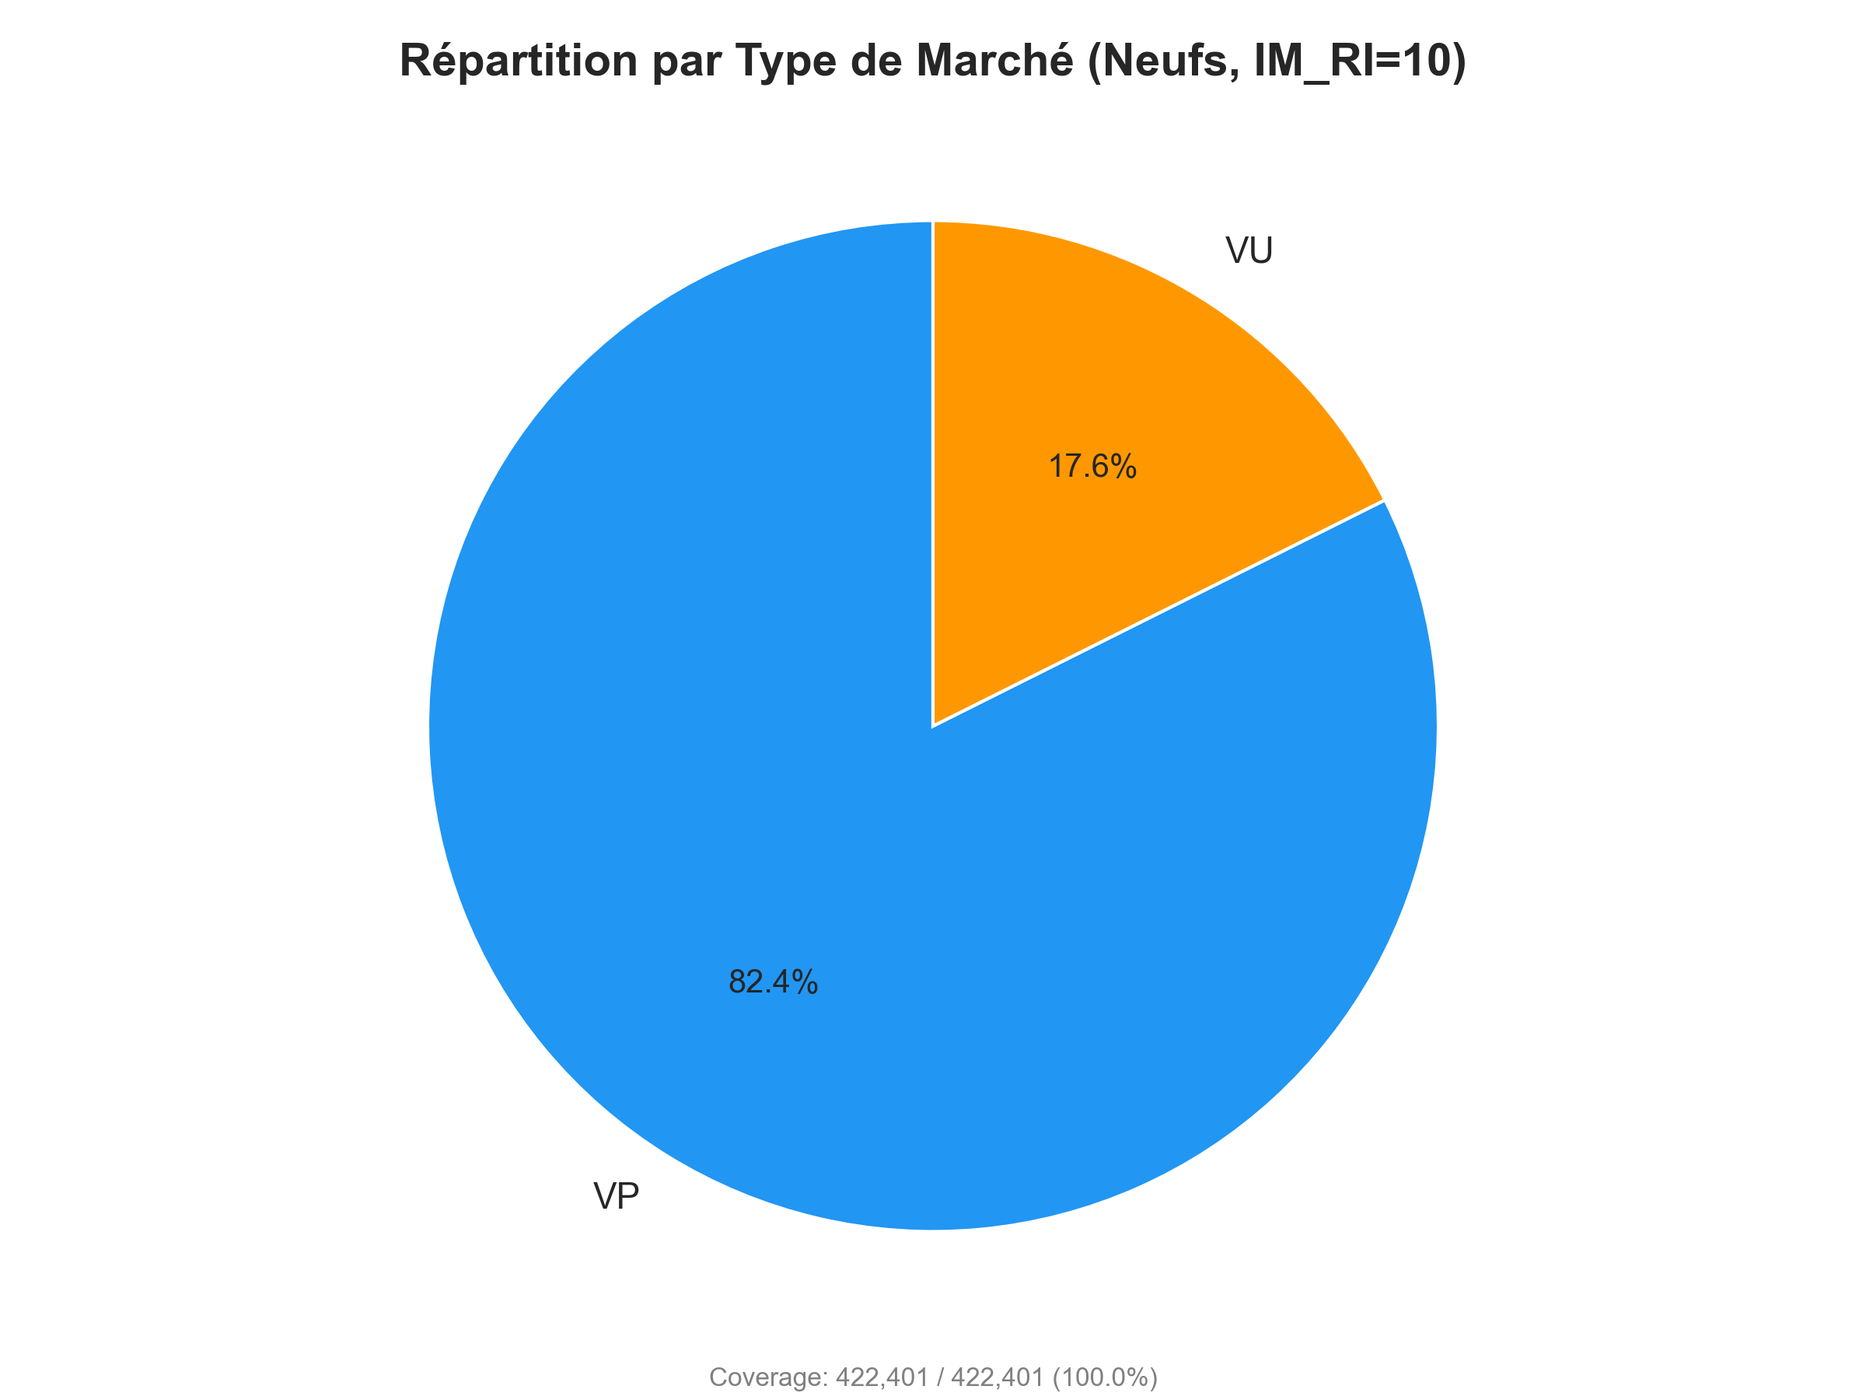
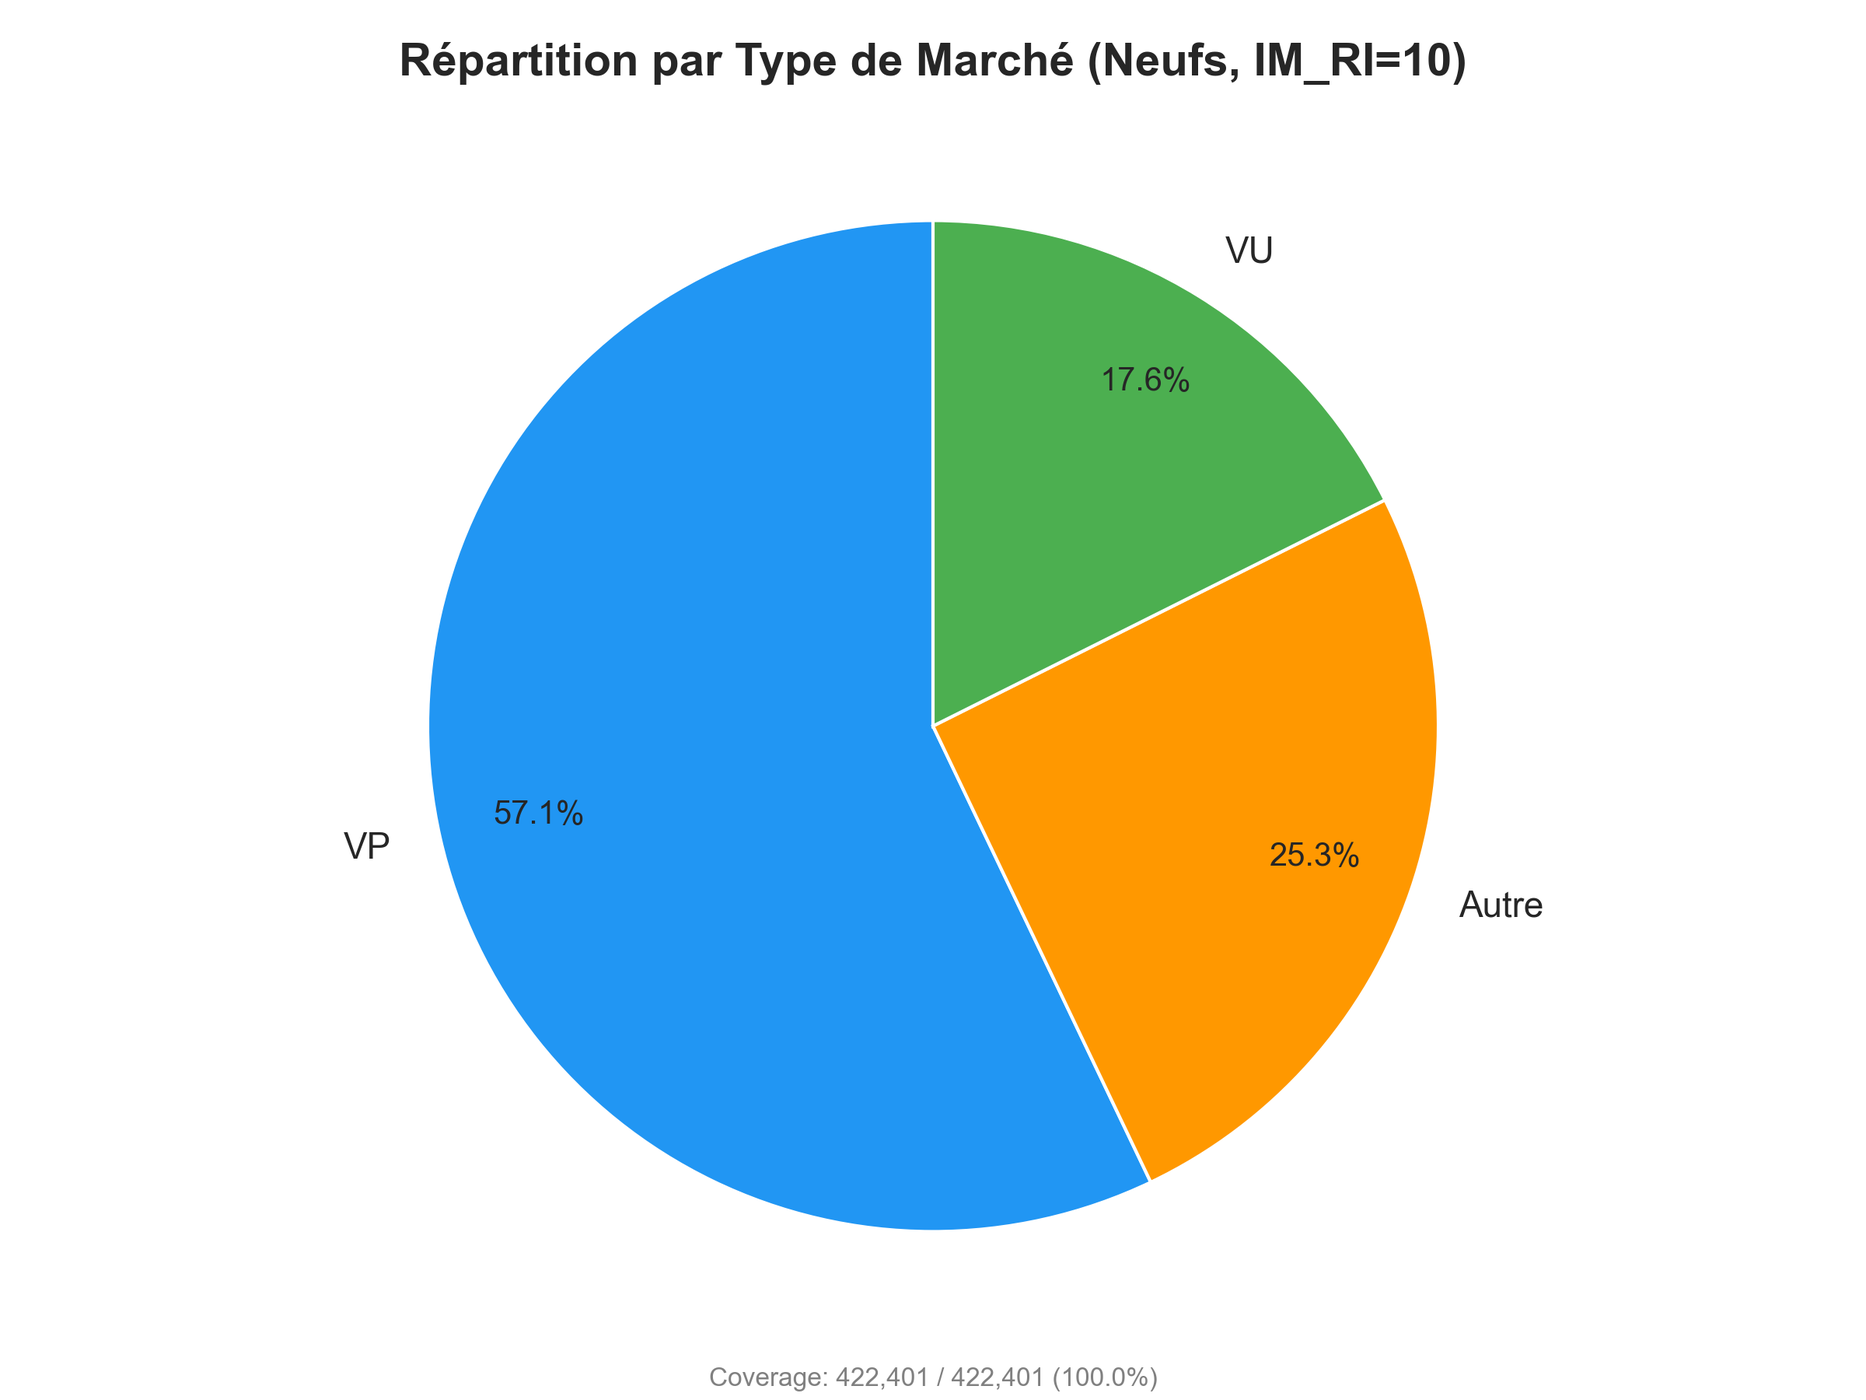
Update enrichment and EDA outputs

diff --git a/step6_modeling.py b/step6_modeling.py
@@ -41,6 +41,10 @@ RAMADAN_RANGES = [
 ]
 
 ARTES_BRANDS = {"RENAULT", "DACIA", "NISSAN"}
+FORECAST_GROUP_LIMITS = {
+    "SEGMENT": 30,
+    "SOUS_SEGMENT": 60,
+}
 
 
 @dataclass
@@ -410,6 +414,127 @@ def build_city_watch(df_raw):
     return watch
 
 
+def build_group_monthly_panel(df_raw, group_col):
+    """Build a monthly panel of sales by categorical group on IM_RI=10 rows."""
+    if group_col not in df_raw.columns:
+        raise ValueError(f"{group_col} column missing in data_cleaned_enriched.csv")
+
+    tmp = df_raw.copy()
+    tmp["IM_RI"] = pd.to_numeric(tmp["IM_RI"], errors="coerce").round().astype("Int64")
+    tmp = tmp[tmp["IM_RI"].eq(10)].copy()
+    tmp["Date"] = pd.to_datetime(tmp["DATV"], errors="coerce").dt.to_period("M").dt.to_timestamp()
+    tmp = tmp.dropna(subset=["Date"]).copy()
+
+    group_series = tmp[group_col].fillna("UNKNOWN").astype(str).str.strip()
+    group_series = group_series.replace({"": "UNKNOWN", "0": "UNKNOWN", "0.0": "UNKNOWN", "NAN": "UNKNOWN"})
+    tmp[group_col] = group_series
+
+    monthly_total = tmp.groupby("Date").size().rename("TOTAL").reset_index()
+    grouped = tmp.groupby(["Date", group_col]).size().rename("VOL").reset_index()
+
+    dates = pd.date_range(monthly_total["Date"].min(), monthly_total["Date"].max(), freq="MS")
+    categories = sorted(grouped[group_col].dropna().astype(str).unique())
+    panel = pd.MultiIndex.from_product([dates, categories], names=["Date", group_col]).to_frame(index=False)
+    panel = panel.merge(grouped, on=["Date", group_col], how="left")
+    panel = panel.merge(monthly_total, on="Date", how="left")
+    panel["VOL"] = panel["VOL"].fillna(0.0)
+    panel["TOTAL"] = panel["TOTAL"].fillna(0.0)
+    panel["SHARE"] = np.where(panel["TOTAL"] > 0, panel["VOL"] / panel["TOTAL"], 0.0)
+    panel["RAMADAN_DAYS"] = panel["Date"].map(month_ramadan_days)
+    panel["EST_RAMADAN"] = (panel["RAMADAN_DAYS"] > 0).astype(int)
+    panel["MOIS"] = panel["Date"].dt.month
+    panel["ANNEE"] = panel["Date"].dt.year
+    return panel
+
+
+def forecast_group_shares(panel, group_col, future_dates, future_total_pred, top_n=None):
+    """Fit one share model per category and forecast grouped monthly volumes."""
+    if panel.empty:
+        return pd.DataFrame(), pd.DataFrame()
+
+    cat_counts = panel.groupby(group_col).size().sort_values(ascending=False)
+    categories = list(cat_counts.index)
+    if top_n is not None:
+        categories = categories[:top_n]
+
+    forecast_rows = []
+    metric_rows = []
+
+    for category in categories:
+        series = panel[panel[group_col] == category].copy().sort_values("Date").reset_index(drop=True)
+        series = series[["Date", "TOTAL", "SHARE", "RAMADAN_DAYS", "EST_RAMADAN", "MOIS", "ANNEE"]].copy()
+
+        sup, features, target = make_share_supervised(series, "SHARE")
+        train = sup[sup["Date"] < pd.Timestamp("2025-01-01")].copy()
+        test = sup[(sup["Date"] >= pd.Timestamp("2025-01-01")) & (sup["Date"] <= pd.Timestamp("2025-12-01"))].copy()
+
+        model = None
+        if not train.empty:
+            model = build_ml_regressor()
+            model.fit(train[features], train[target])
+
+        if not test.empty:
+            if model is not None:
+                pred_share = np.clip(model.predict(test[features]), 0.0, 1.0)
+            else:
+                pred_share = np.repeat(float(series["SHARE"].iloc[-1]) if not series.empty else 0.0, len(test))
+            pred_vol = pred_share * test["TOTAL"].values
+            metric_rows.append({
+                group_col: category,
+                "model": "SHARE_MODEL",
+                "share_mae": float(mean_absolute_error(test["SHARE"], pred_share)),
+                "share_rmse": float(np.sqrt(mean_squared_error(test["SHARE"], pred_share))),
+                "share_smape": float(smape(test["SHARE"], pred_share)),
+                "volume_mae": float(mean_absolute_error(test["SHARE"] * test["TOTAL"].values, pred_vol)),
+                "volume_rmse": float(np.sqrt(mean_squared_error(test["SHARE"] * test["TOTAL"].values, pred_vol))),
+                "volume_smape": float(smape(test["SHARE"] * test["TOTAL"].values, pred_vol)),
+                "train_months": int(len(train)),
+                "test_months": int(len(test)),
+            })
+
+        hist = series.copy().reset_index(drop=True)
+        for d, total_pred in zip(future_dates, future_total_pred):
+            if model is not None:
+                feat_dict = one_step_share_features(hist, d, "SHARE", [])
+                feat_df = pd.DataFrame([feat_dict])[features]
+                share_pred = float(np.clip(model.predict(feat_df)[0], 0.0, 1.0))
+            else:
+                share_pred = float(hist["SHARE"].iloc[-1]) if not hist.empty else 0.0
+
+            forecast_rows.append({
+                "Date": d,
+                group_col: category,
+                "RAW_SHARE": share_pred,
+                "TOTAL_PRED": float(total_pred),
+            })
+            hist = pd.concat([
+                hist,
+                pd.DataFrame([{
+                    "Date": d,
+                    "TOTAL": float(total_pred),
+                    "SHARE": share_pred,
+                    "RAMADAN_DAYS": month_ramadan_days(d),
+                    "EST_RAMADAN": int(month_ramadan_days(d) > 0),
+                    "MOIS": pd.Timestamp(d).month,
+                    "ANNEE": pd.Timestamp(d).year,
+                }])
+            ], ignore_index=True)
+
+    forecast_df = pd.DataFrame(forecast_rows)
+    if forecast_df.empty:
+        return forecast_df, pd.DataFrame(metric_rows)
+
+    forecast_df["SHARE_NORM"] = forecast_df["RAW_SHARE"].clip(lower=0.0)
+    month_sum = forecast_df.groupby("Date")["SHARE_NORM"].transform("sum")
+    forecast_df["SHARE_NORM"] = np.where(month_sum > 0, forecast_df["SHARE_NORM"] / month_sum, 0.0)
+    forecast_df["PREV_VENTES"] = forecast_df["TOTAL_PRED"] * forecast_df["SHARE_NORM"]
+    forecast_df = forecast_df.rename(columns={"SHARE_NORM": "PREV_SHARE"})
+    forecast_df = forecast_df[["Date", group_col, "PREV_SHARE", "PREV_VENTES"]].sort_values(["Date", group_col]).reset_index(drop=True)
+
+    metrics_df = pd.DataFrame(metric_rows)
+    return forecast_df, metrics_df
+
+
 def main():
     print("STEP 6 - MODELING & FORECASTING (S1 2026)\n")
     project_root = os.path.dirname(os.path.abspath(__file__))
@@ -562,6 +687,7 @@ def main():
                         dfm[c] = dfm[c].ffill().bfill()
 
             res = run_forecasting(dfm, df_raw, scenario_label=name)
+            scenario_multiplier = 1.0
             
             # Apply scenario multipliers based on economic factors (PIB index)
             if "PIB_INDEX" in res["df_future"].columns:
@@ -576,6 +702,32 @@ def main():
             out_forecast = os.path.join(project_root, f"step6_forecast_s1_2026_{name}.csv")
             res["df_future"].rename(columns={"TOTAL_PRED": "PREV_TOTAL_MARCHE"})[["Date", "PREV_TOTAL_MARCHE"]].to_csv(out_forecast, index=False)
             print(f"Saved scenario forecast: {os.path.basename(out_forecast)}")
+            scenario_segment, scenario_segment_metrics = forecast_group_shares(
+                build_group_monthly_panel(df_raw, "SEGMENT"),
+                "SEGMENT",
+                res["df_future"]["Date"].values,
+                res["df_future"]["TOTAL_PRED"].values,
+                top_n=FORECAST_GROUP_LIMITS["SEGMENT"],
+            )
+            scenario_sous, scenario_sous_metrics = forecast_group_shares(
+                build_group_monthly_panel(df_raw, "SOUS_SEGMENT"),
+                "SOUS_SEGMENT",
+                res["df_future"]["Date"].values,
+                res["df_future"]["TOTAL_PRED"].values,
+                top_n=FORECAST_GROUP_LIMITS["SOUS_SEGMENT"],
+            )
+            out_segment = os.path.join(project_root, f"step6_forecast_s1_2026_by_segment_{name}.csv")
+            out_segment_metrics = os.path.join(project_root, f"step6_metrics_summary_by_segment_{name}.csv")
+            out_sous = os.path.join(project_root, f"step6_forecast_s1_2026_by_sous_segment_{name}.csv")
+            out_sous_metrics = os.path.join(project_root, f"step6_metrics_summary_by_sous_segment_{name}.csv")
+            scenario_segment["PREV_VENTES"] = scenario_segment["PREV_VENTES"] * scenario_multiplier
+            scenario_sous["PREV_VENTES"] = scenario_sous["PREV_VENTES"] * scenario_multiplier
+            scenario_segment.to_csv(out_segment, index=False)
+            scenario_segment_metrics.to_csv(out_segment_metrics, index=False)
+            scenario_sous.to_csv(out_sous, index=False)
+            scenario_sous_metrics.to_csv(out_sous_metrics, index=False)
+            print(f"Saved scenario segment forecast: {os.path.basename(out_segment)}")
+            print(f"Saved scenario sous-segment forecast: {os.path.basename(out_sous)}")
             out_metrics = os.path.join(project_root, f"step6_metrics_summary_{name}.csv")
             pd.DataFrame([{"name": m.name, "mae": m.mae, "rmse": m.rmse, "smape": m.smape} for m in res["model_results"]]).to_csv(out_metrics, index=False)
             print(f"Saved scenario metrics: {os.path.basename(out_metrics)}")
@@ -771,6 +923,27 @@ def main():
     print("4) Build city watch output...")
     city_watch = build_city_watch(df_raw)
 
+    # Model 5: grouped forecasts by segment hierarchy.
+    print("5) Forecast ventes par SEGMENT...")
+    segment_panel = build_group_monthly_panel(df_raw, "SEGMENT")
+    segment_forecast, segment_metrics = forecast_group_shares(
+        segment_panel,
+        "SEGMENT",
+        future_dates,
+        df_future["TOTAL_PRED"].values,
+        top_n=FORECAST_GROUP_LIMITS["SEGMENT"],
+    )
+
+    print("6) Forecast ventes par SOUS_SEGMENT...")
+    sous_segment_panel = build_group_monthly_panel(df_raw, "SOUS_SEGMENT")
+    sous_segment_forecast, sous_segment_metrics = forecast_group_shares(
+        sous_segment_panel,
+        "SOUS_SEGMENT",
+        future_dates,
+        df_future["TOTAL_PRED"].values,
+        top_n=FORECAST_GROUP_LIMITS["SOUS_SEGMENT"],
+    )
+
     # Consolidated S1 2026 output.
     forecast = future_slice[["Date", "TOTAL", "VP", "VU", "PART_VP", "PART_VU", "RAMADAN_DAYS"]].copy()
     forecast = forecast.rename(columns={"TOTAL": "PREV_TOTAL_MARCHE", "VP": "PREV_VP", "VU": "PREV_VU"})
@@ -783,6 +956,10 @@ def main():
     out_backtest = os.path.join(project_root, "step6_backtest_2025_total.csv")
     out_city = os.path.join(project_root, "step6_city_watch_s1_2025_vs_2024.csv")
     out_artes_hist = os.path.join(project_root, "step6_artes_monthly_history.csv")
+    out_segment_forecast = os.path.join(project_root, "step6_forecast_s1_2026_by_segment.csv")
+    out_segment_metrics = os.path.join(project_root, "step6_metrics_summary_by_segment.csv")
+    out_sous_forecast = os.path.join(project_root, "step6_forecast_s1_2026_by_sous_segment.csv")
+    out_sous_metrics = os.path.join(project_root, "step6_metrics_summary_by_sous_segment.csv")
 
     forecast.to_csv(out_forecast, index=False)
     pd.DataFrame(
@@ -802,6 +979,10 @@ def main():
 
     city_watch.to_csv(out_city, index=False)
     df_month[["Date", "ARTES_VOL", "ARTES_SHARE", "TOTAL"]].to_csv(out_artes_hist, index=False)
+    segment_forecast.to_csv(out_segment_forecast, index=False)
+    segment_metrics.to_csv(out_segment_metrics, index=False)
+    sous_segment_forecast.to_csv(out_sous_forecast, index=False)
+    sous_segment_metrics.to_csv(out_sous_metrics, index=False)
 
     # Visual summary.
     fig, axes = plt.subplots(2, 2, figsize=(16, 10))

diff --git a/step4_eda.py b/step4_eda.py
@@ -248,18 +248,25 @@ def main():
         return
 
     if df_neuf[colonne_marche].notna().sum() > 0:
-        marche_counts = df_neuf[colonne_marche].value_counts()
+        # Clean and normalize labels so variants like 'marché autre)' are captured as 'Autre'
+        marche_series = df_neuf[colonne_marche].astype(str).str.strip()
+        marche_series = marche_series.str.replace(r'\)$', '', regex=True)
+        marche_series = marche_series.str.replace(r'(?i).*autre.*', 'Autre', regex=True)
+        marche_counts = marche_series.value_counts()
+
         plt.figure(figsize=(8, 6))
-        colors = ['#2196F3', '#FF9800', '#4CAF50'][:len(marche_counts)]
+        colors = ['#2196F3', '#FF9800', '#4CAF50', '#9C27B0'][:len(marche_counts)]
         wedges, texts, autotexts = plt.pie(
             marche_counts.values,
             labels=marche_counts.index,
             autopct='%1.1f%%',
             colors=colors,
-            startangle=90
+            startangle=90,
+            pctdistance=0.8
         )
         for t in autotexts:
             t.set_fontsize(10)
+
         plt.title('Répartition par Type de Marché (Neufs, IM_RI=10)',
                   fontsize=14, fontweight='bold')
         nn = df_neuf[colonne_marche].notna().sum()
@@ -273,18 +280,19 @@ def main():
     # ── GRAPH 9: Sales by CONTINENT ───────────────────────────────────────────
     if 'CONTINENT' in df_neuf.columns and df_neuf['CONTINENT'].notna().sum() > 0:
         cont_counts = df_neuf['CONTINENT'].value_counts()
-        plt.figure(figsize=(8, 6))
         colors = ['#3498DB', '#E74C3C', '#2ECC71', '#F39C12'][:len(cont_counts)]
-        wedges, texts, autotexts = plt.pie(
-            cont_counts.values,
-            labels=cont_counts.index,
-            autopct='%1.1f%%',
-            colors=colors,
-            startangle=90
-        )
-        for t in autotexts:
-            t.set_fontsize(10)
+        plt.figure(figsize=(10, 6))
+        ax = cont_counts.plot(kind='barh', color=colors, edgecolor='black', linewidth=1.2)
         plt.title('Ventes Neufs par Continent d\'Origine', fontsize=14, fontweight='bold')
+        plt.xlabel('Nombre de vehicules')
+        plt.ylabel('Continent')
+        plt.gca().invert_yaxis()
+        for p in ax.patches:
+            width = p.get_width()
+            pct = 100 * width / cont_counts.sum()
+            ax.annotate(f"{int(width):,}\n({pct:.1f}%)",
+                        (width, p.get_y() + p.get_height() / 2),
+                        va='center', ha='left', fontsize=10, fontweight='bold')
         nn = df_neuf['CONTINENT'].notna().sum()
         plt.figtext(0.5, 0.01, f'Coverage: {nn:,} / {len(df_neuf):,} ({nn/len(df_neuf)*100:.1f}%)',
                     ha='center', fontsize=8, color='gray')

diff --git a/step2_5_enrich_data.py b/step2_5_enrich_data.py
@@ -264,10 +264,21 @@ def main():
     # Valeurs: 'VP' = Vehicules Particuliers, 'VU' = Vehicules Utilitaires.
     # Cet enrichissement est requis pour step4, step5 et step6.
     if 'Marché' in df.columns:
-        df['TYPE_MARCHE'] = df['Marché'].astype(str).str.upper().str.extract(r'(VP|VU)', expand=False)
-        print("  Creation de TYPE_MARCHE depuis Marche")
+        # Normalize Marche labels (preserve variants like 'marché autre)')
+        df['Marché'] = df['Marché'].astype(str).str.strip()
+        # Remove stray trailing parenthesis but keep the label text (e.g. 'marché autre)') -> 'marché autre'
+        df['Marché'] = df['Marché'].str.replace(r"\)$", "", regex=True)
+        # Create TYPE_MARCHE with three categories: VP, VU, AUTRE
+        extracted = df['Marché'].str.upper().str.extract(r'(VP|VU)', expand=False)
+        # Detect explicit 'AUTRE' mentions (case-insensitive) or common phrases
+        is_autre = df['Marché'].str.upper().str.contains('AUTRE|MARCHE AUTRE|AUTRES', na=False)
+        df['TYPE_MARCHE'] = extracted
+        df.loc[is_autre & df['TYPE_MARCHE'].isna(), 'TYPE_MARCHE'] = 'AUTRE'
+        # For any remaining NaN, keep as NaN (will be mode-filled later if needed)
+        print("  Creation de TYPE_MARCHE depuis Marche (VP / VU / AUTRE)")
         print(f"    VP (Particuliers): {(df['TYPE_MARCHE'] == 'VP').sum():,}")
         print(f"    VU (Utilitaires):  {(df['TYPE_MARCHE'] == 'VU').sum():,}")
+        print(f"    AUTRE:              {(df['TYPE_MARCHE'] == 'AUTRE').sum():,}")
     else:
         df['TYPE_MARCHE'] = np.nan
 

diff --git a/README_step6.md b/README_step6.md
@@ -7,8 +7,10 @@ This step reproduces the main ARTES report outputs using monthly forecasts on `I
 1. **Total monthly market forecast** (VP + VU) — SARIMAX + Prophet ensemble
 2. **VP/VU decomposition forecast** — XGBoost share model
 3. **ARTES brands combined forecast** (Renault + Dacia + Nissan) — XGBoost volume model
-4. **City watch table** (S1 2025 vs S1 2024) — Transaction-level monitoring
-5. **Scenario analysis** — Multiple macro scenarios (baseline/optimiste/prudent)
+4. **Segment forecast** (`SEGMENT`) — monthly share model on new vehicles only
+5. **Sous-segment forecast** (`SOUS_SEGMENT`) — monthly share model on new vehicles only
+6. **City watch table** (S1 2025 vs S1 2024) — Transaction-level monitoring
+7. **Scenario analysis** — Multiple macro scenarios (baseline/optimiste/prudent)
 
 ## Main script
 
@@ -25,12 +27,20 @@ This step reproduces the main ARTES report outputs using monthly forecasts on `I
 - `step6_backtest_2025_total.csv` — Actual vs predicted for 2025
 - `step6_city_watch_s1_2025_vs_2024.csv` — Top cities, growth %
 - `step6_artes_monthly_history.csv` — Historical ARTES volumes
+- `step6_forecast_s1_2026_by_segment.csv` — Segment-level S1 2026 forecast for `IM_RI=10`
+- `step6_metrics_summary_by_segment.csv` — Segment-level backtest metrics
+- `step6_forecast_s1_2026_by_sous_segment.csv` — Sous-segment S1 2026 forecast for `IM_RI=10`
+- `step6_metrics_summary_by_sous_segment.csv` — Sous-segment backtest metrics
 - `12_Step6_Forecasts_S1_2026.png` — 4-panel visualization
 
 ### Scenario outputs (if scenario sheets detected)
 
 - `step6_forecast_s1_2026_baseline.csv`, `_optimiste.csv`, `_prudent.csv`
 - `step6_metrics_summary_baseline.csv`, `_optimiste.csv`, `_prudent.csv`
+- `step6_forecast_s1_2026_by_segment_baseline.csv`, `_optimiste.csv`, `_prudent.csv`
+- `step6_metrics_summary_by_segment_baseline.csv`, `_optimiste.csv`, `_prudent.csv`
+- `step6_forecast_s1_2026_by_sous_segment_baseline.csv`, `_optimiste.csv`, `_prudent.csv`
+- `step6_metrics_summary_by_sous_segment_baseline.csv`, `_optimiste.csv`, `_prudent.csv`
 - `rapport_ARTES_s1_2026_by_scenario.csv` — Consolidated summary
 - `rapport_ARTES_monthly_by_scenario.csv` — Monthly detail
 - `rapport_ARTES_s1_2026_by_scenario.png` — Scenario comparison chart
